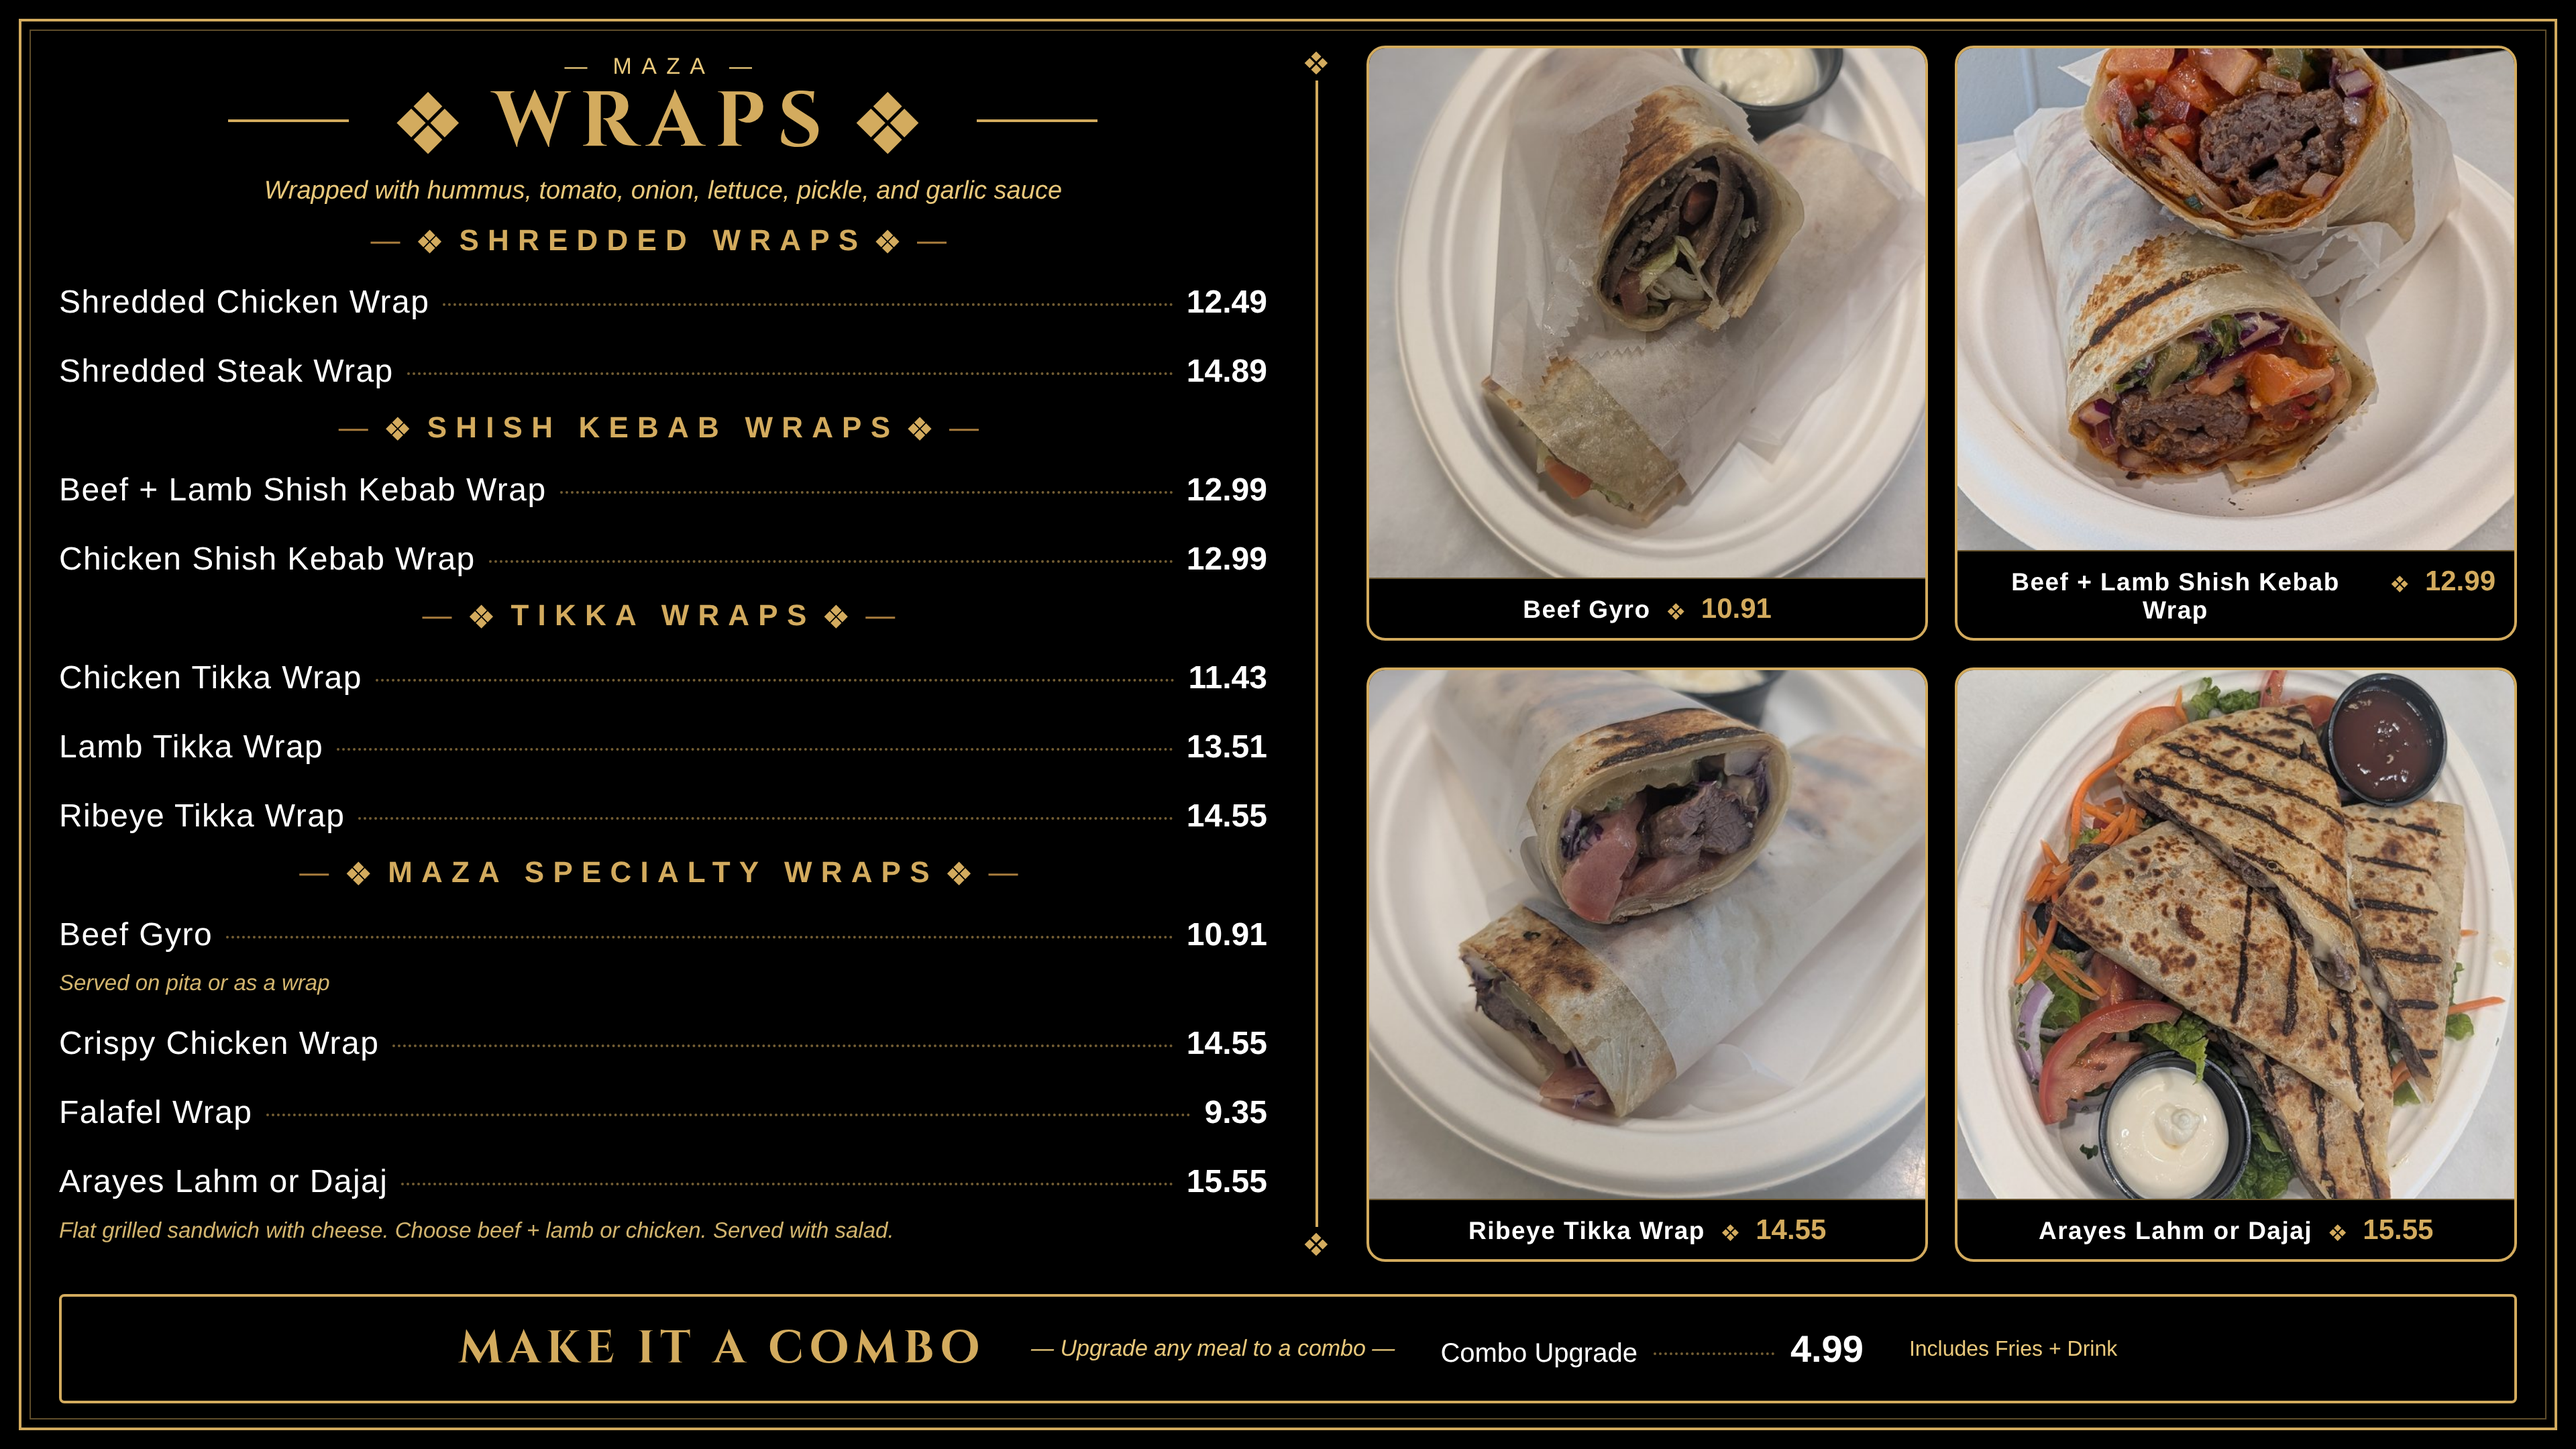
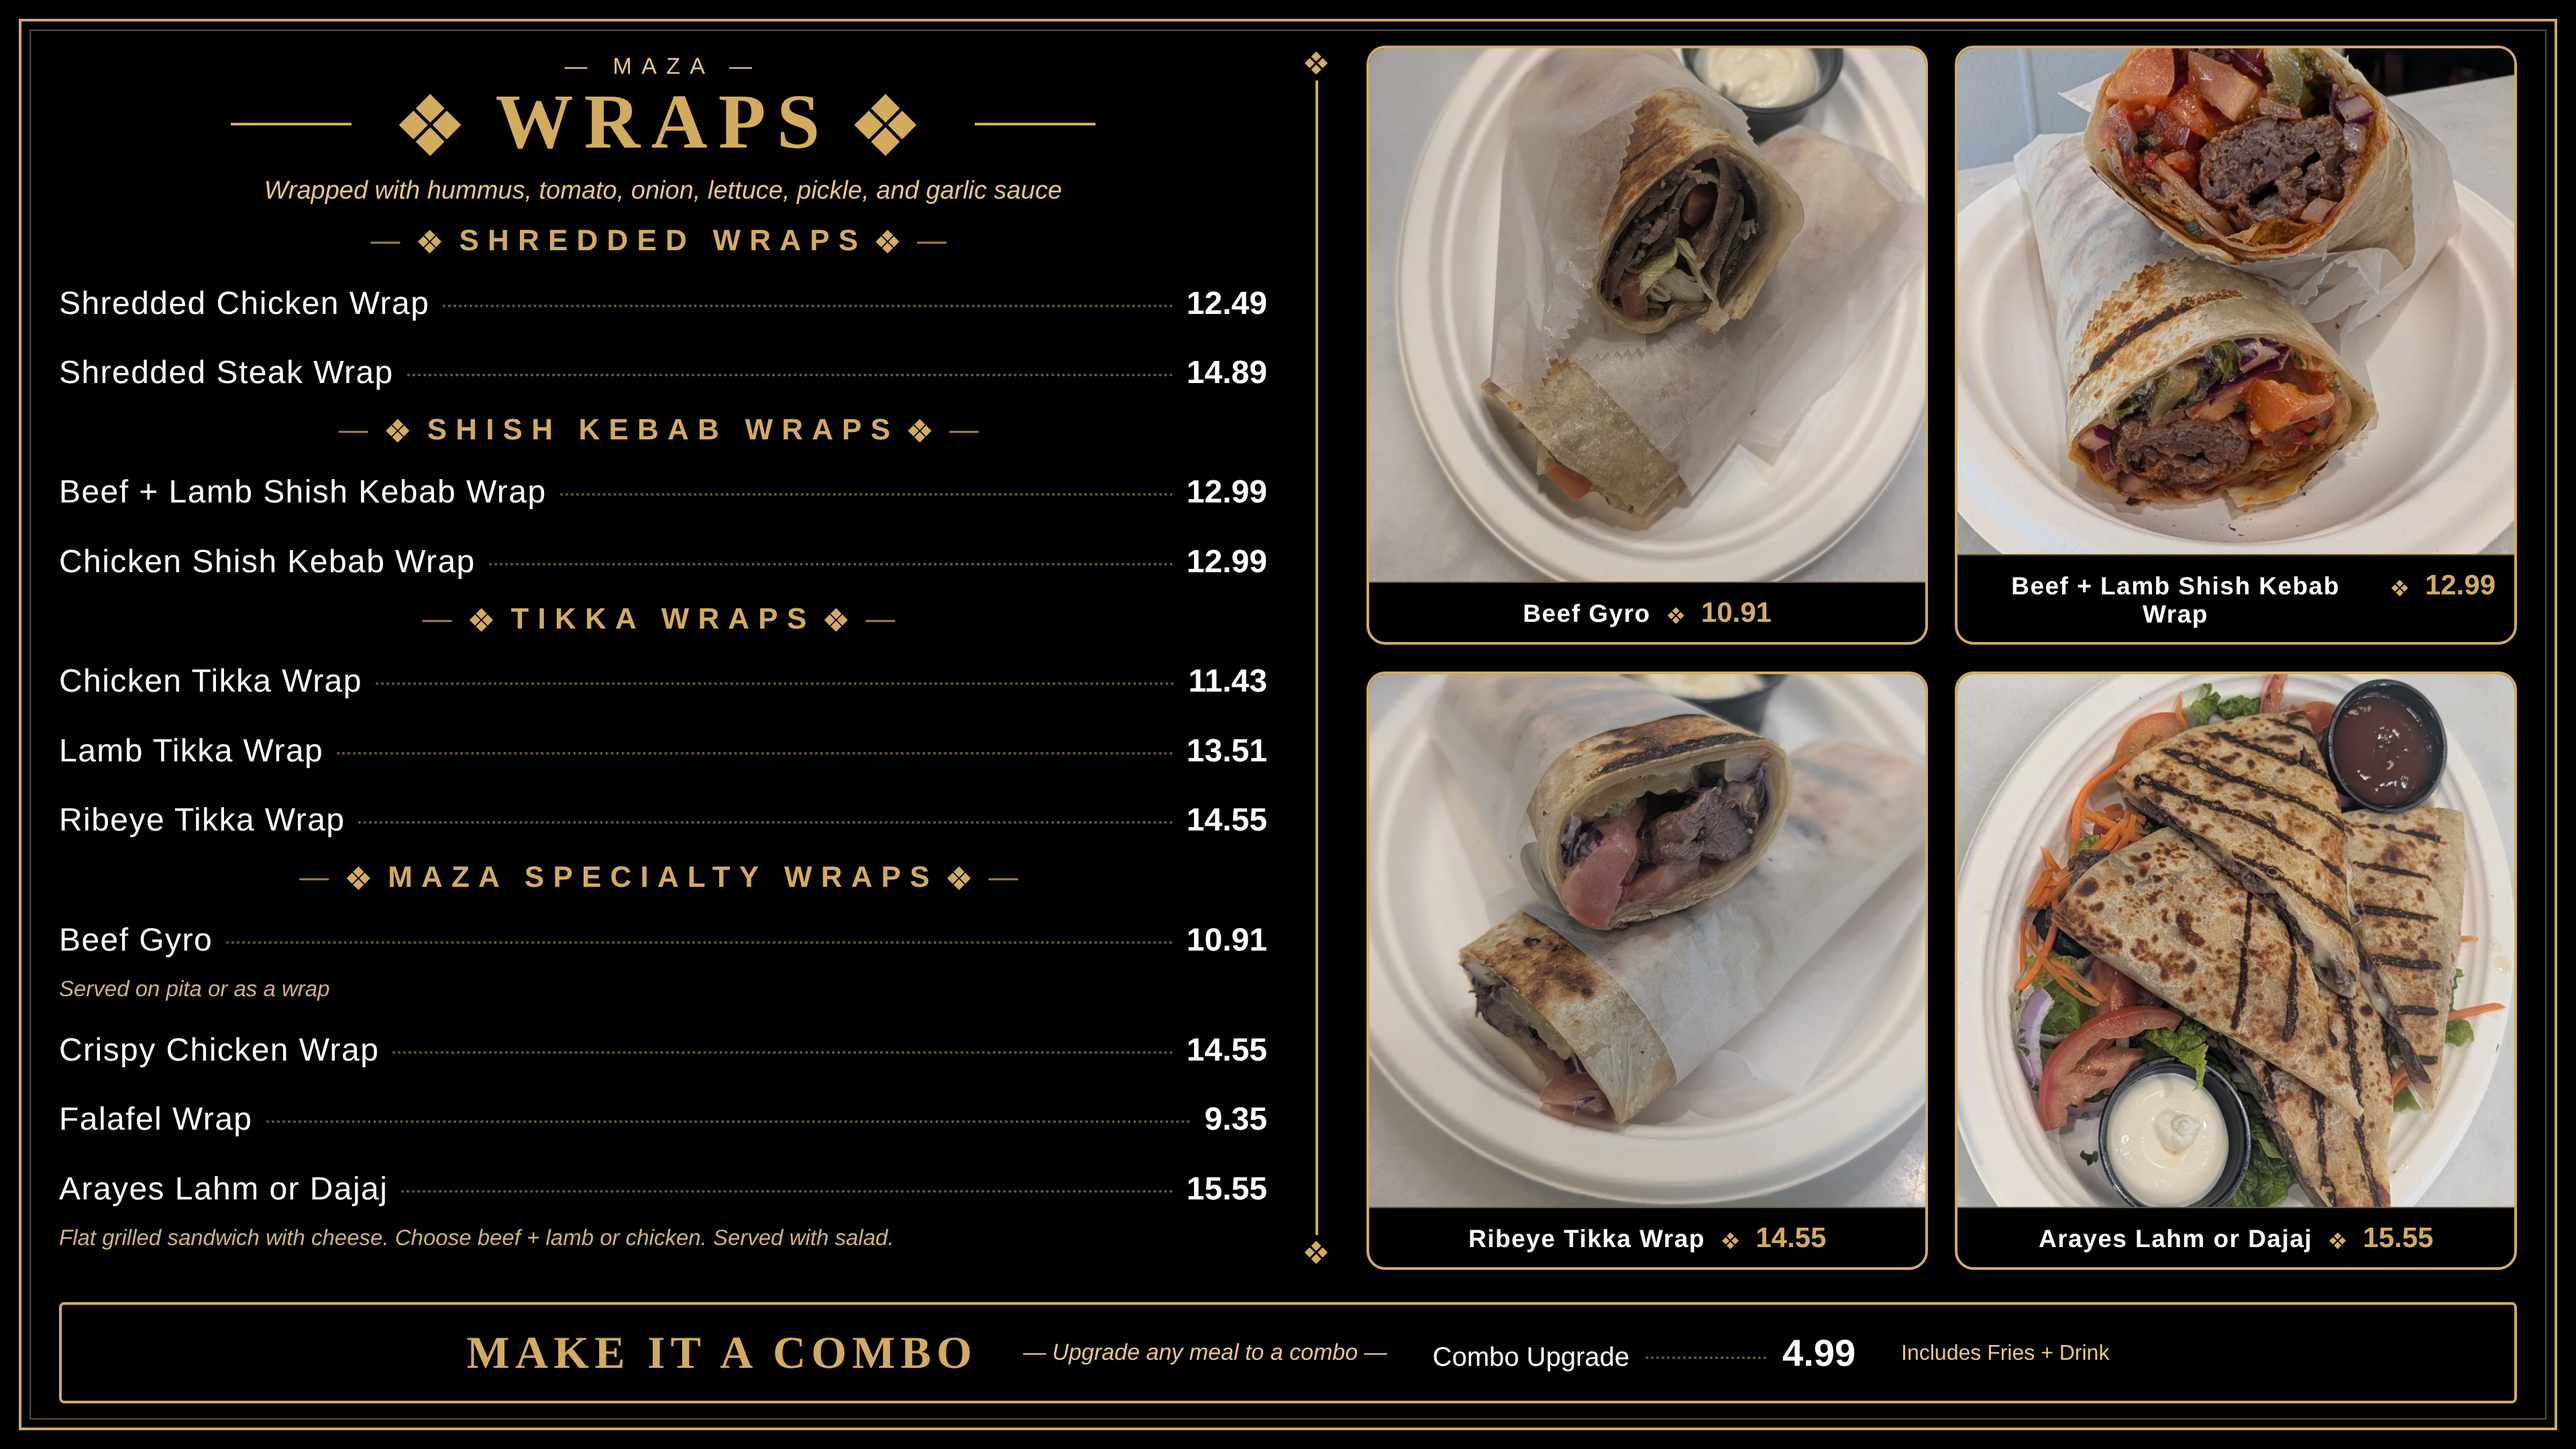
html-menus: nudge shish kebab wrap crop down slightly (30%)

diff --git a/html-menus/out/screen1-wraps.html b/html-menus/out/screen1-wraps.html
@@ -28,8 +28,8 @@
   }
   .s1-card .photo-card { flex: 1; min-height: 0; }
   .s1-card .photo-card img { border: none; border-radius: 0; height: 100%; }
-  /* mild top bias — full top sunk the food too low */
-  .s1-card img[alt="Beef + Lamb Shish Kebab Wrap"] { object-position: center 35%; }
+  /* mild top bias — full top sunk the food too low; 30% = slight drop from 35% */
+  .s1-card img[alt="Beef + Lamb Shish Kebab Wrap"] { object-position: center 30%; }
   .s1-card .card-detail {
     display: flex; align-items: baseline; justify-content: center; gap: 12px;
     padding: 10px 14px;

diff --git a/html-menus/templates/tv-screen1.html b/html-menus/templates/tv-screen1.html
@@ -28,8 +28,8 @@
   }
   .s1-card .photo-card { flex: 1; min-height: 0; }
   .s1-card .photo-card img { border: none; border-radius: 0; height: 100%; }
-  /* mild top bias — full top sunk the food too low */
-  .s1-card img[alt="Beef + Lamb Shish Kebab Wrap"] { object-position: center 35%; }
+  /* mild top bias — full top sunk the food too low; 30% = slight drop from 35% */
+  .s1-card img[alt="Beef + Lamb Shish Kebab Wrap"] { object-position: center 30%; }
   .s1-card .card-detail {
     display: flex; align-items: baseline; justify-content: center; gap: 12px;
     padding: 10px 14px;
